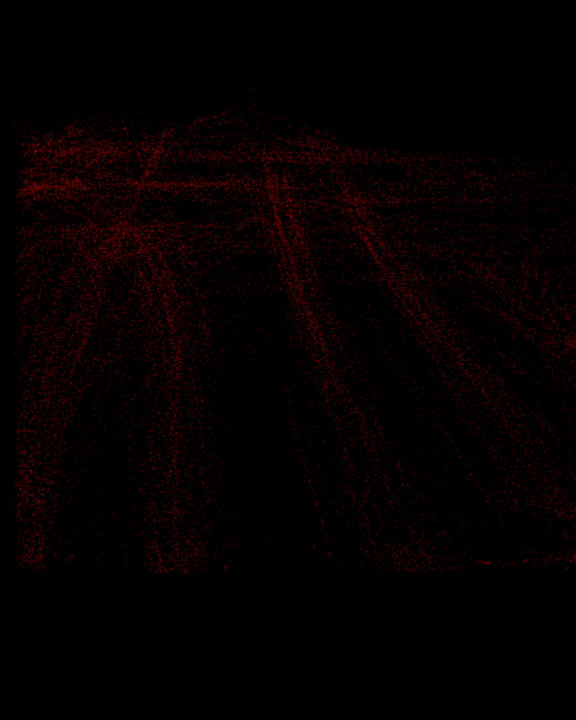
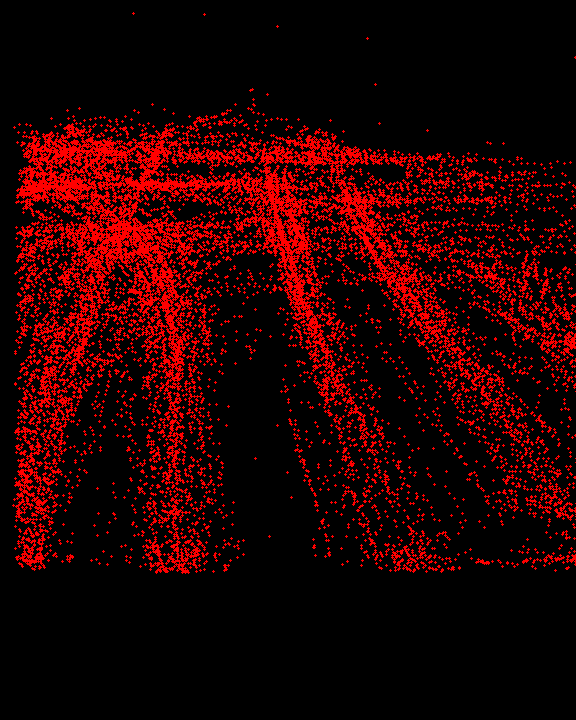
2019.8.5
complete clustering algorithm, but the result is not promising

diff --git a/Trajectory/trajectory.py b/Trajectory/trajectory.py
@@ -63,7 +63,6 @@ def main():
                 #     gray_sum += binary_foregourd_img[340, y]
                 # gray_sum_list_left_lane.append(gray_sum)
 
-                # TODO oepning, closing
                 # Morphological Operation
                 kernel = cv2.getStructuringElement(cv2.MORPH_ELLIPSE, (3, 3))
                 morphology_img = cv2.morphologyEx(binary_foregourd_img, cv2.MORPH_OPEN, kernel)
@@ -83,27 +82,27 @@ def main():
                 # Get Moment Information of Image
                 vehicle_info = get_img_moment(processed_img, frame_num, vehicle_info_all)
 
-                # # Graw Central Point and Theta
-                # for key, value in vehicle_info.items():
-                #     center = (int(vehicle_info[key]['cx']), int(vehicle_info[key]['cy']))
-                #     cv2.circle(source_img, center, 2, (0, 0, 255))
-                #     height = 50 * math.tan(math.radians(vehicle_info[key]['theta']))
-                #     start = (int(vehicle_info[key]['cx'] - 25), int(vehicle_info[key]['cy'] + height))
-                #     end = (int(vehicle_info[key]['cx'] + 25), int(vehicle_info[key]['cy'] - height))
-                #     cv2.line(source_img, start, end, (0, 255, 0), thickness=3)
-                #
-                # # Image Show
-                # frame_list = [source_img, processed_img]
-                # name_list = ['source_img', 'processed_img']
-                # img_show_list(name_list, frame_list)
-                #
+                # Graw Central Point and Theta
+                for key, value in vehicle_info.items():
+                    center = (int(vehicle_info[key]['cx']), int(vehicle_info[key]['cy']))
+                    cv2.circle(source_img, center, 2, (0, 0, 255))
+                    height = 50 * math.tan(math.radians(vehicle_info[key]['theta']))
+                    start = (int(vehicle_info[key]['cx'] - 25), int(vehicle_info[key]['cy'] + height))
+                    end = (int(vehicle_info[key]['cx'] + 25), int(vehicle_info[key]['cy'] - height))
+                    cv2.line(source_img, start, end, (0, 255, 0), thickness=3)
+
+                # Image Show
+                frame_list = [source_img, processed_img]
+                name_list = ['source_img', 'processed_img']
+                img_show_list(name_list, frame_list)
+
                 # # Save Theta on the Picture
                 # processed_path = os.path.join(base_path, "Picture", video_name, "Processed")
                 # source_path = os.path.join(base_path, "Picture", video_name, "Source")
                 # my_save_picture(processed_path, processed_img, frame_num)
                 # my_save_picture(source_path, source_img, frame_num)
 
-        if (cv2.waitKey(1) & 0xff == ord("q")) | frame_num >= 5000:
+        if (cv2.waitKey(100) & 0xff == ord("q")) | frame_num >= 5000:
             break
 
     # Save Vehicle Position and Direction Information
@@ -203,7 +202,7 @@ def draw_contours(binary_img, source_img):
 
 def judge_contour(x, y, w, h):
     area = w * h
-    if 600 < area < 10000:
+    if 1200 < area < 10000:
         return True
     return False
 

diff --git a/Trajectory/cluster.py b/Trajectory/cluster.py
@@ -1,0 +1,50 @@
+import json
+import numpy as np
+from sklearn.cluster import KMeans, SpectralClustering
+import pandas as pd
+import cv2
+import matplotlib.pyplot as plt
+
+
+height = 720
+width = 576
+
+# jsonFile = open(r"E:\MIT\Processed Data\car_surveillnace.json")
+jsonFile = open(r"E:\MIT\Processed Data\LOOP.json")
+
+jsonString = jsonFile.read()
+vehicle_info_all = json.loads(jsonString)
+
+cx = []
+cy = []
+theta = []
+vehicle_data = []
+weight = 50
+cluster_num = 6
+
+for frame_index, frame_info in vehicle_info_all.items():
+    for car_index, vehicle_info in frame_info.items():
+        cx.append(vehicle_info['cx'])
+        cy.append(vehicle_info['cy'])
+        theta.append(vehicle_info['theta']*weight)
+
+df = pd.DataFrame(list(zip(cx, cy, theta)), columns=['cx', 'cy', 'theta'])
+
+for index, row in df.iterrows():
+    vehicle_data.append([row['cx'], row['cy'], row['theta']])
+
+# clustering = KMeans(n_clusters=cluster_num, random_state=0).fit(vehicle_data)
+clustering = SpectralClustering(n_clusters=cluster_num, assign_labels="discretize",random_state=0).fit(vehicle_data)
+
+print(clustering.labels_)
+print(min(clustering.labels_), max(clustering.labels_))
+
+img = np.zeros((height, width, 3), np.uint8)
+
+colors = [(0,0,255), (0,255,0), (255,0,0), (255,255,0), (255,0,255), (0,255,255)]
+
+for i, l in enumerate(clustering.labels_):
+    cv2.circle(img, (int(cx[i]), int(cy[i])), 1, colors[l], -1)
+
+cv2.imwrite("./point_cloud_1_6_cluster.png", img)
+

diff --git a/Trajectory/pointCloud.py b/Trajectory/pointCloud.py
@@ -13,14 +13,12 @@ vehicle_info_all = json.loads(jsonString)
 
 img = np.zeros((height, width, 3), np.uint8)
 
-alpha = 0.99  # Transparency factor.
+# alpha = 0.99  # Transparency factor.
 
 for frame_num, frame_info in vehicle_info_all.items():
     for car_index, vehicle_info in frame_info.items():
-        overlay = img.copy()
+        # overlay = img.copy()
         cv2.circle(img, (int(vehicle_info['cx']), int(vehicle_info['cy'])), 1, (0, 0, 255), -1)
-        img = cv2.addWeighted(overlay, alpha, img, 1 - alpha, 0)
+        # img = cv2.addWeighted(overlay, alpha, img, 1 - alpha, 0)
 
 cv2.imwrite("./point_cloud_1_6.png", img)
-
-i = 0
